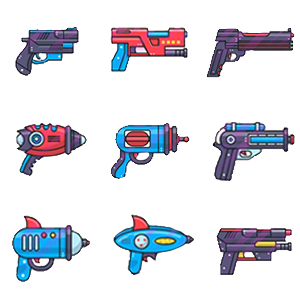
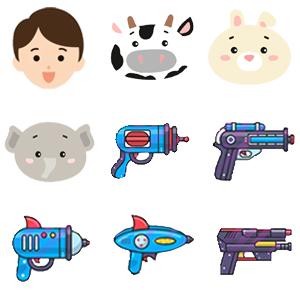
charactor 추가

diff --git a/src/index.css b/src/index.css
@@ -70,19 +70,67 @@ code {
   /* transition: 3.32s ease-in-out; */
 }
 
-.m_carrot {
-  width: 40px !important;
-  height: 40px !important;
+.b_pierce {
+  width: 48px !important;
+  height: 48px !important;
   background-image: url("/public/items/m_carrot.png") !important; /* 너가 받은 스프라이트 */
   background-repeat: no-repeat !important;
   background-size: contain !important;
   box-shadow: unset !important;
 }
 
-.game_player {
+.b_rapid {
+  width: 40px !important;
+  height: 40px !important;
+  background-image: url("/public/items/m_milk.png") !important; /* 너가 받은 스프라이트 */
+  background-repeat: no-repeat !important;
+  background-size: contain !important;
+  box-shadow: unset !important;
+}
+
+.game_player.player_pistol {
   width: 64px; /* 프레임 하나의 실제 너비 */
   height: 80px; /* 프레임 하나의 실제 높이 */
   background-image: url("/public/charactor/charactor_player.png"); /* 너가 받은 스프라이트 */
+  background-repeat: no-repeat;
+
+  /* 전체 스프라이트 시트의 가로 길이 = 프레임 8개 */
+  background-size: 512px 80px; /* (100px * 8프레임) */
+
+  animation: eightpx-walk 0.8s steps(8) infinite;
+  /* transition: 3.32s ease-in-out; */
+}
+
+.game_player.player_pierce {
+  width: 64px; /* 프레임 하나의 실제 너비 */
+  height: 80px; /* 프레임 하나의 실제 높이 */
+  background-image: url("/public/charactor/charactor_rabbit.png"); /* 너가 받은 스프라이트 */
+  background-repeat: no-repeat;
+
+  /* 전체 스프라이트 시트의 가로 길이 = 프레임 8개 */
+  background-size: 512px 80px; /* (100px * 8프레임) */
+
+  animation: eightpx-walk 0.8s steps(8) infinite;
+  /* transition: 3.32s ease-in-out; */
+}
+
+.game_player.player_rapid {
+  width: 64px; /* 프레임 하나의 실제 너비 */
+  height: 80px; /* 프레임 하나의 실제 높이 */
+  background-image: url("/public/charactor/charactor_cow.png"); /* 너가 받은 스프라이트 */
+  background-repeat: no-repeat;
+
+  /* 전체 스프라이트 시트의 가로 길이 = 프레임 8개 */
+  background-size: 512px 80px; /* (100px * 8프레임) */
+
+  animation: eightpx-walk 0.8s steps(8) infinite;
+  /* transition: 3.32s ease-in-out; */
+}
+
+.game_player.player_shotgun {
+  width: 64px; /* 프레임 하나의 실제 너비 */
+  height: 80px; /* 프레임 하나의 실제 높이 */
+  background-image: url("/public/charactor/charactor_eleph.png"); /* 너가 받은 스프라이트 */
   background-repeat: no-repeat;
 
   /* 전체 스프라이트 시트의 가로 길이 = 프레임 8개 */

diff --git a/src/components/map/ZoombieGame.tsx b/src/components/map/ZoombieGame.tsx
@@ -128,6 +128,20 @@ type StageConfig = {
   kindWeights?: Partial<Record<EnemyKind, number>>;
 };
 
+const PLAYER_WEAPON_CLASS: Record<WeaponId, string> = {
+  pistol: "player_pistol",
+  rapid: "player_rapid",
+  pierce: "player_pierce",
+  shotgun: "player_shotgun",
+};
+
+const BULLET_CLASS: Record<WeaponId, string> = {
+  pistol: "b_pistol",
+  rapid: "b_rapid",
+  pierce: "b_pierce",
+  shotgun: "b_shotgun",
+};
+
 const STAGES: StageConfig[] = [
   {
     spawnIntervalSec: 1.15,
@@ -308,6 +322,7 @@ type Bullet = {
   speed: number;
   damage: number;
   pierce: boolean;
+  weaponId: WeaponId;
 };
 
 type WeaponId = "pistol" | "rapid" | "pierce" | "shotgun";
@@ -908,6 +923,7 @@ const ZoombieGame: React.FC<Props> = ({ onExit }) => {
           speed: weapon.bulletSpeed,
           damage: weapon.damage,
           pierce: weapon.pierce,
+          weaponId: weapon.id,
         });
       }
     }
@@ -1342,12 +1358,13 @@ const ZoombieGame: React.FC<Props> = ({ onExit }) => {
           width: 10,
           height: beemHeight,
           borderRadius: 8,
-          background: b.pierce
-            ? "linear-gradient(180deg, #60a5fa, #a78bfa)"
-            : "linear-gradient(180deg, #facc15, #f97316)",
+          background:
+            b.weaponId === "shotgun"
+              ? "linear-gradient(180deg, #b0d4ff, #60a5fa)"
+              : "linear-gradient(180deg, #facc15, #f97316)",
           boxShadow: "0 10px 16px rgba(0,0,0,0.35)",
         }}
-        className={`${b.pierce && "m_carrot"}`}
+        className={BULLET_CLASS[b.weaponId]}
       />
     );
   };
@@ -1519,6 +1536,8 @@ const ZoombieGame: React.FC<Props> = ({ onExit }) => {
   const speedLevel = valueToLevel(activeWeapon.bulletSpeed, SPEED_LEVELS);
 
   const powerLevel = valueToLevel(activeWeapon.damage, POWER_LEVELS);
+
+  const playerWeaponClass = PLAYER_WEAPON_CLASS[activeWeapon.id];
 
   const StatBlocks = ({
     level,
@@ -1758,7 +1777,7 @@ const ZoombieGame: React.FC<Props> = ({ onExit }) => {
                     ? "2px solid rgba(248,113,113,0.9)"
                     : "none",
               }}
-              className="game_player"
+              className={`game_player ${playerWeaponClass}`}
             />
           </div>
         );
